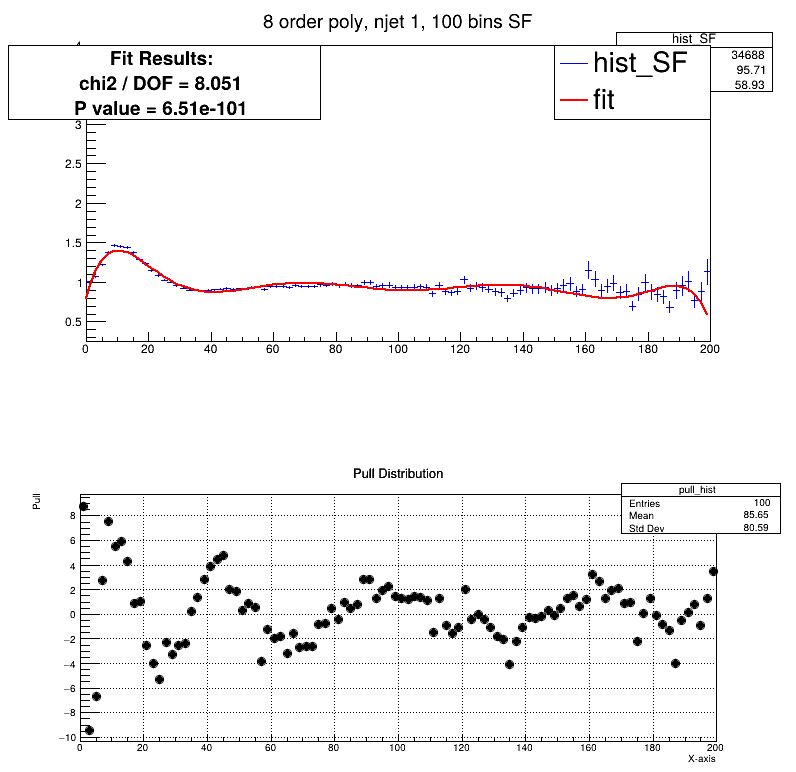
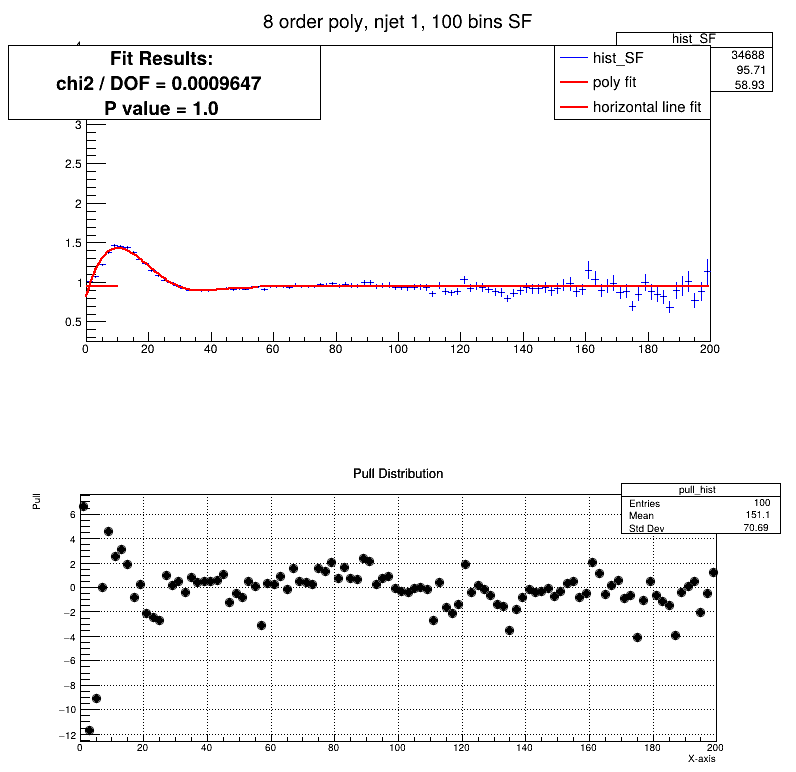
2016post wgts obtained

diff --git a/data/zpt_rewgt/fitting/get_goodnessOfFit.py b/data/zpt_rewgt/fitting/get_goodnessOfFit.py
@@ -15,15 +15,15 @@ f_orders = { # to recalculate these, re-run f-test on do_f_test.py
         "njet1" : 4,
         "njet2" : 4,
     },
-    # "2016postVFP" : {
-    #     "njet0" : 6,
-    #     "njet1" : 8,
-    #     "njet2" : 7,
-    # },
+    "2016postVFP" : {
+        "njet0" : 5,
+        "njet1" : 4,
+        "njet2" : 4,
+    },
     # "2016preVFP" : {
-    #     "njet0" : 6,
-    #     "njet1" : 8,
-    #     "njet2" : 7,
+        # "njet0" : 5,
+        # "njet1" : 4,
+        # "njet2" : 4,
     # },
 }
 
@@ -38,12 +38,22 @@ poly_fit_ranges = {
         "njet1" : [0, 55],
         "njet2" : [0, 60],
     },
+    "2016postVFP" : {
+        "njet0" : [0, 70],
+        "njet1" : [0, 45],
+        "njet2" : [0, 50],
+    },
+    # "2016preVFP" : {
+    #     "njet0" : [0, 70],
+    #     "njet1" : [0, 55],
+    #     "njet2" : [0, 60],
+    # },
 }
 global_fit_xmax = 200
 
 
 # years = ["2018", "2017", "2016postVFP", "2016preVFP"]
-years = ["2017",]
+years = ["2016postVFP",]
 nbins = [50, 100]
 # nbins = [100]
 jet_multiplicities = [0,1,2]
@@ -60,8 +70,8 @@ for year in years:
     
     out_dict_by_year = {}
     
-    # for njet in jet_multiplicities:
-    for njet in [2]:
+    for njet in jet_multiplicities:
+    # for njet in [2]:
         file = ROOT.TFile(f"{year}_njet{njet}.root", "READ")
         save_path = "./plots"
         workspace = file.Get("zpt_Workspace")

diff --git a/data/zpt_rewgt/fitting/do_f_test.py b/data/zpt_rewgt/fitting/do_f_test.py
@@ -16,10 +16,19 @@ poly_fit_ranges = {
         "njet1" : [0, 55],
         "njet2" : [0, 60],
     },
+    "2016postVFP" : {
+        "njet0" : [0, 70],
+        "njet1" : [0, 45],
+        "njet2" : [0, 50],
+    },
+    # "2016preVFP" : {
+    #     "njet0" : [0, 70],
+    #     "njet1" : [0, 55],
+    #     "njet2" : [0, 60],
+    # },
 }
 
-
-year = "2017"
+year = "2016postVFP"
 # year = "2016postVFP"
 # year = "2018"
 # njet = 0
